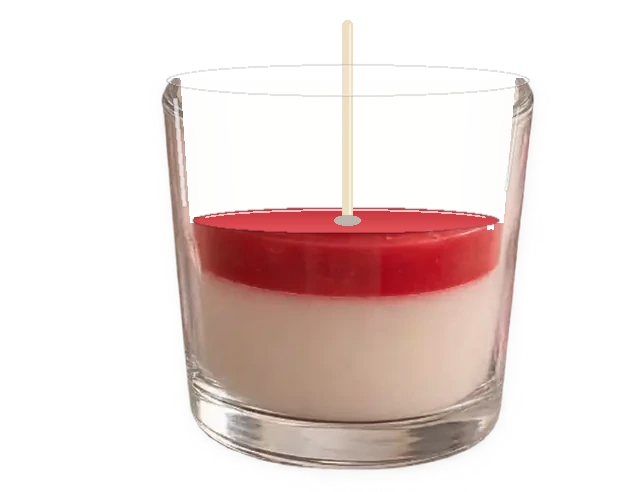
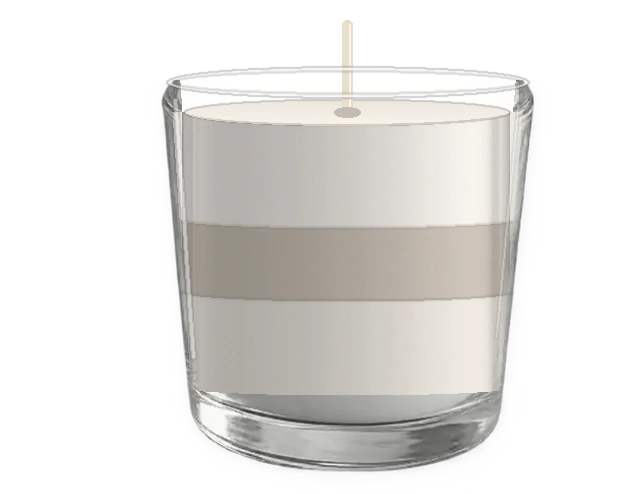
Tuile « Créez la vôtre » : trois couches de cire, sans couleur
Le verre de la photo est rempli de trois couches de cire en tons crème,
numérotées (haut, milieu, bas). La tuile passe en rose et pêche, avec
une étiquette « L'atelier », plus proche de l'esprit Yumiya.

Claude-Session: https://claude.ai/code/session_01YC55nvTZtEQ64RtCYxmK9z

diff --git a/index.html b/index.html
@@ -1804,6 +1804,20 @@ body[data-view=creer] #creer,body[data-view=journal] #journal,body[data-view=mai
 }
 @media (max-width:480px){.bv-sl{display:none}.bv-tot{margin-left:auto}.bv-sum-in{gap:14px}}
 body[data-view=acheter] .ft-bot{padding-bottom:calc(96px + env(safe-area-inset-bottom))}
+
+/* Tuile « Créez la vôtre » : ton atelier, ludique */
+.pt-atelier{background:radial-gradient(90% 70% at 50% 100%,#FFF6EE 0%,transparent 70%),linear-gradient(180deg,#FCE9E4 0%,#F9DDD8 100%)!important}
+.pt-atelier::before,.pt-atelier::after{content:"";position:absolute;border-radius:50%;pointer-events:none}
+.pt-atelier::before{width:220px;height:220px;left:-70px;top:38%;background:#F6CFD3;opacity:.55}
+.pt-atelier::after{width:150px;height:150px;right:-40px;top:16%;background:#FBE3C7;opacity:.7}
+.pt-tag{display:inline-block;margin-bottom:12px;padding:6px 14px;border-radius:999px;background:#fff;color:var(--wine);font-size:.8rem;font-weight:700;letter-spacing:.02em;box-shadow:0 6px 16px -10px rgba(120,40,60,.45);transform:rotate(-3deg)}
+.pt-atelier h2{color:#4A1C27}
+.pt-atelier .btn{border-radius:999px}
+.pt-layers{position:relative;z-index:1;display:block;flex:none;width:min(86%,420px);max-width:none;max-height:none;aspect-ratio:620/494;padding-top:0;margin:auto auto 0}
+.pt-layers img{display:block;width:100%;height:100%;object-fit:contain}
+.ly{position:absolute;left:50%;top:var(--y);display:flex;align-items:center;gap:6px;transform:translate(-50%,-50%);padding:4px 11px 4px 4px;border-radius:999px;background:rgba(255,255,255,.92);color:#4A1C27;font-size:.78rem;font-weight:600;white-space:nowrap;box-shadow:0 4px 12px -6px rgba(74,28,39,.35)}
+.ly i{display:grid;place-items:center;width:20px;height:20px;border-radius:50%;background:var(--wine);color:#fff;font-style:normal;font-size:.7rem;font-weight:700}
+@media (max-width:734px){.pt-layers{width:min(88%,360px)}.ly{font-size:.66rem;gap:5px;padding:2px 9px 2px 2px}.ly i{width:16px;height:16px;font-size:.6rem}}
 </style>
 <style>
 /* ═══════════════ FINITIONS DE MOUVEMENT ═══════════════ */
@@ -1892,10 +1906,15 @@ body[data-view=acheter] .ft-bot{padding-bottom:calc(96px + env(safe-area-inset-b
         <div class="pt-cta"><button type="button" class="btn" data-page="box" data-t="t.more">En savoir plus</button><button type="button" class="btn ghost" data-buy="box" data-t="t.buy">Acheter</button></div></div>
       <img class="pt-img" src="img/cut-box2.webp" alt="Coffret cadeau Yumiya" loading="lazy"/>
     </div>
-    <div class="ptile light">
-      <div class="pt-tx"><h2 data-t="t4.h">Créez la vôtre</h2><p data-t="t4.p">Composez-la, voyez-la prendre forme.</p>
+    <div class="ptile light pt-atelier">
+      <div class="pt-tx"><span class="pt-tag" data-t="t4.eye">L’atelier</span><h2 data-t="t4.h">Créez la vôtre</h2><p data-t="t4.p">Composez-la, voyez-la prendre forme.</p>
         <div class="pt-cta"><a class="btn" href="#creer" data-t="t4.cta">Commencer</a></div></div>
-      <img class="pt-img" src="img/verre-couches.webp" alt="Un verre et ses couches de cire" loading="lazy"/>
+      <div class="pt-img pt-layers">
+        <img src="img/verre-couches.webp" alt="Un verre et ses trois couches de cire" loading="lazy"/>
+        <span class="ly" style="--y:36%"><i>3</i><b data-t="ly.3">Couche du haut</b></span>
+        <span class="ly" style="--y:55%"><i>2</i><b data-t="ly.2">Couche du milieu</b></span>
+        <span class="ly" style="--y:72%"><i>1</i><b data-t="ly.1">Couche du bas</b></span>
+      </div>
     </div>
     <div class="ptile dark">
       <div class="pt-tx"><h2 data-t="t5.h">Sur mesure</h2><p data-t="t5.p">Mariage, naissance, cadeau d’entreprise.</p>
@@ -2720,7 +2739,7 @@ const EN_K = {
   're.d':'5 to 10 working days',
   'ft.news':'The Yumiya letter','ft.newsT':'New collections and stories from the workshop.','ft.ph':'Your email','ft.sub':'Subscribe','ft.shop':'Shop','ft.all':'All candles','ft.box':'Gift box','ft.quiz':'Find my candle',
   'ft.house':'Our house','ft.legal':'Legal notice','ft.cgv':'Terms of sale','ft.write':'Write to us','ft.contact':'Contact form','ft.esc':'A student company of the École Supérieure de Commerce, La Neuveville',
-  't0.eye':'Floral & soothing','t0.h':'Lavender','t0.p':'Lavender, whipped cream, and hearts placed by hand.','t1.eye':'Autumn edition','t1.h':'Autumn','t1.p':'Apple, whipped cream, and hand-placed decor.','t.more':'Learn more','t.buy':'Buy','t2.h':'Tulip','t2.p':'A wax bouquet, in four colours.','t3.h':'Yumiya Gift Box','t3.p':'The ready-to-give duo.','t4.h':'Create your own','t4.p':'Design it, watch it take shape.','t4.cta':'Get started','t5.h':'Made to order','t5.p':'Weddings, births, corporate gifts.','t5.cta':'Write to us','hero.lead2':'Lavender. Hand-poured in La Neuveville.','bb.go':'Checkout'
+  't0.eye':'Floral & soothing','t0.h':'Lavender','t0.p':'Lavender, whipped cream, and hearts placed by hand.','t1.eye':'Autumn edition','t1.h':'Autumn','t1.p':'Apple, whipped cream, and hand-placed decor.','t.more':'Learn more','t.buy':'Buy','t2.h':'Tulip','t2.p':'A wax bouquet, in four colours.','t3.h':'Yumiya Gift Box','t3.p':'The ready-to-give duo.','t4.h':'Create your own','t4.p':'Design it, watch it take shape.','t4.cta':'Get started','t4.eye':'The workshop','ly.1':'Bottom layer','ly.2':'Middle layer','ly.3':'Top layer','t5.h':'Made to order','t5.p':'Weddings, births, corporate gifts.','t5.cta':'Write to us','hero.lead2':'Lavender. Hand-poured in La Neuveville.','bb.go':'Checkout'
 };
 const EN = {
   'Panier':'Bag','Fermer':'Close','Touchez la mèche pour rallumer':'Touch the wick to relight','Rallumer la bougie':'Relight the candle','Touchez la flamme':'Touch the flame','Souffler la bougie':'Blow out the candle',
@@ -2857,7 +2876,7 @@ const DE = {
   'ft.news':'Der Yumiya-Brief','ft.newsT':'Neue Kollektionen und Einblicke ins Atelier.','ft.ph':'Ihre E-Mail','ft.sub':'Anmelden','ft.shop':'Shop','ft.all':'Alle Kerzen','ft.box':'Geschenkbox','ft.quiz':'Meine Kerze finden',
   'c1':'Ein Glas, <em>ein Docht.</em>','c2':'Das Sojawachs, <em>von Hand gegossen.</em>','c3':'Schicht <em>für Schicht.</em>','c4':'Die Sahne, <em>mit dem Spritzbeutel.</em>','c5':'Das Dekor, <em>Stück für Stück.</em>','c6':'Und dann, <em>das Licht.</em>','c7':'Eine Kollektion, <em>vier Charaktere.</em>',
   'ch1':'Das Glas','ch2':'Das Wachs','ch3':'Die Schichten','ch4':'Die Sahne','ch5':'Das Dekor','ch6':'Die Flamme','ch7':'Die Kollektion',
-  'seg.all':'Alle','seg.g':'Gourmet','seg.f':'Blumen','seg.c':'Boxen','cmp.eye':'Vergleichen','cmp.t':'Welche <em>passt zu Ihnen?</em>','cmp.note':'Alle unsere Kerzen: 100 % pflanzliches Sojawachs, Baumwolldocht, von Hand gegossen in La Neuveville.','t0.eye':'Blumig & beruhigend','t0.h':'Lavendel','t0.p':'Lavendel, Sahne und von Hand gesetzte Herzen.','t1.eye':'Herbst-Edition','t1.h':'Herbst','t1.p':'Apfel, Sahne und von Hand gesetztes Dekor.','t.more':'Mehr erfahren','t.buy':'Kaufen','t2.h':'Tulpe','t2.p':'Ein Strauss aus Wachs, in vier Farben.','t3.h':'Yumiya Geschenkbox','t3.p':'Das Duo zum Verschenken.','t4.h':'Gestalten Sie Ihre','t4.p':'Zusammenstellen und Gestalt annehmen sehen.','t4.cta':'Starten','t5.h':'Nach Mass','t5.p':'Hochzeit, Geburt, Firmengeschenk.','t5.cta':'Schreiben Sie uns','hero.lead2':'Lavendel. Von Hand gegossen, in La Neuveville.','bb.go':'Zur Kasse',
+  'seg.all':'Alle','seg.g':'Gourmet','seg.f':'Blumen','seg.c':'Boxen','cmp.eye':'Vergleichen','cmp.t':'Welche <em>passt zu Ihnen?</em>','cmp.note':'Alle unsere Kerzen: 100 % pflanzliches Sojawachs, Baumwolldocht, von Hand gegossen in La Neuveville.','t0.eye':'Blumig & beruhigend','t0.h':'Lavendel','t0.p':'Lavendel, Sahne und von Hand gesetzte Herzen.','t1.eye':'Herbst-Edition','t1.h':'Herbst','t1.p':'Apfel, Sahne und von Hand gesetztes Dekor.','t.more':'Mehr erfahren','t.buy':'Kaufen','t2.h':'Tulpe','t2.p':'Ein Strauss aus Wachs, in vier Farben.','t3.h':'Yumiya Geschenkbox','t3.p':'Das Duo zum Verschenken.','t4.h':'Gestalten Sie Ihre','t4.p':'Zusammenstellen und Gestalt annehmen sehen.','t4.cta':'Starten','t4.eye':'Die Werkstatt','ly.1':'Untere Schicht','ly.2':'Mittlere Schicht','ly.3':'Obere Schicht','t5.h':'Nach Mass','t5.p':'Hochzeit, Geburt, Firmengeschenk.','t5.cta':'Schreiben Sie uns','hero.lead2':'Lavendel. Von Hand gegossen, in La Neuveville.','bb.go':'Zur Kasse',
   'nav.jr':'Journal','nav.new':'Neuheiten','nav.mai':'Das Haus','jr.eye':'Das Journal','jr.t':'Rituale, Tipps <em>und Einblicke</em>','mai.eye':'Das Haus Yumiya','mai.more':'Unsere Geschichte lesen →','gal.lead':'Neue Kollektionen, limitierte Editionen und Handgriffe: Verfolgen Sie das Leben unserer Kerzen, eine Kreation nach der anderen.','gal.btn':'Folgen Sie uns auf Instagram','re.d':'5 bis 10 Werktage','ft.contact':'Kontaktformular',
   'cfg.studio':'Studio','cfg.amb':'Ambiente','cfg.eye':'Personalisierung','cfg.t':'Gestalten Sie Ihre, <em>sehen Sie sie in 3D</em>','cfg.lead':'Wählen Sie jedes Detail: Ihre Kerze nimmt vor Ihren Augen Gestalt an. Drehen Sie sie mit dem Finger, zünden Sie sie an und senden Sie uns Ihre Kreation.','cfg.light':'Anzünden','cfg.reset':'Zentrieren','cfg.hint':'Mit dem Finger drehen','cfg.fail':'Die 3D-Vorschau konnte nicht geladen werden. Sie können Ihre Kreation trotzdem gestalten und senden.',
   'ft.house':'Das Haus','ft.legal':'Impressum','ft.cgv':'Verkaufsbedingungen','ft.write':'Schreiben Sie uns','ft.esc':'Schülerunternehmen der Handelsmittelschule La Neuveville'
